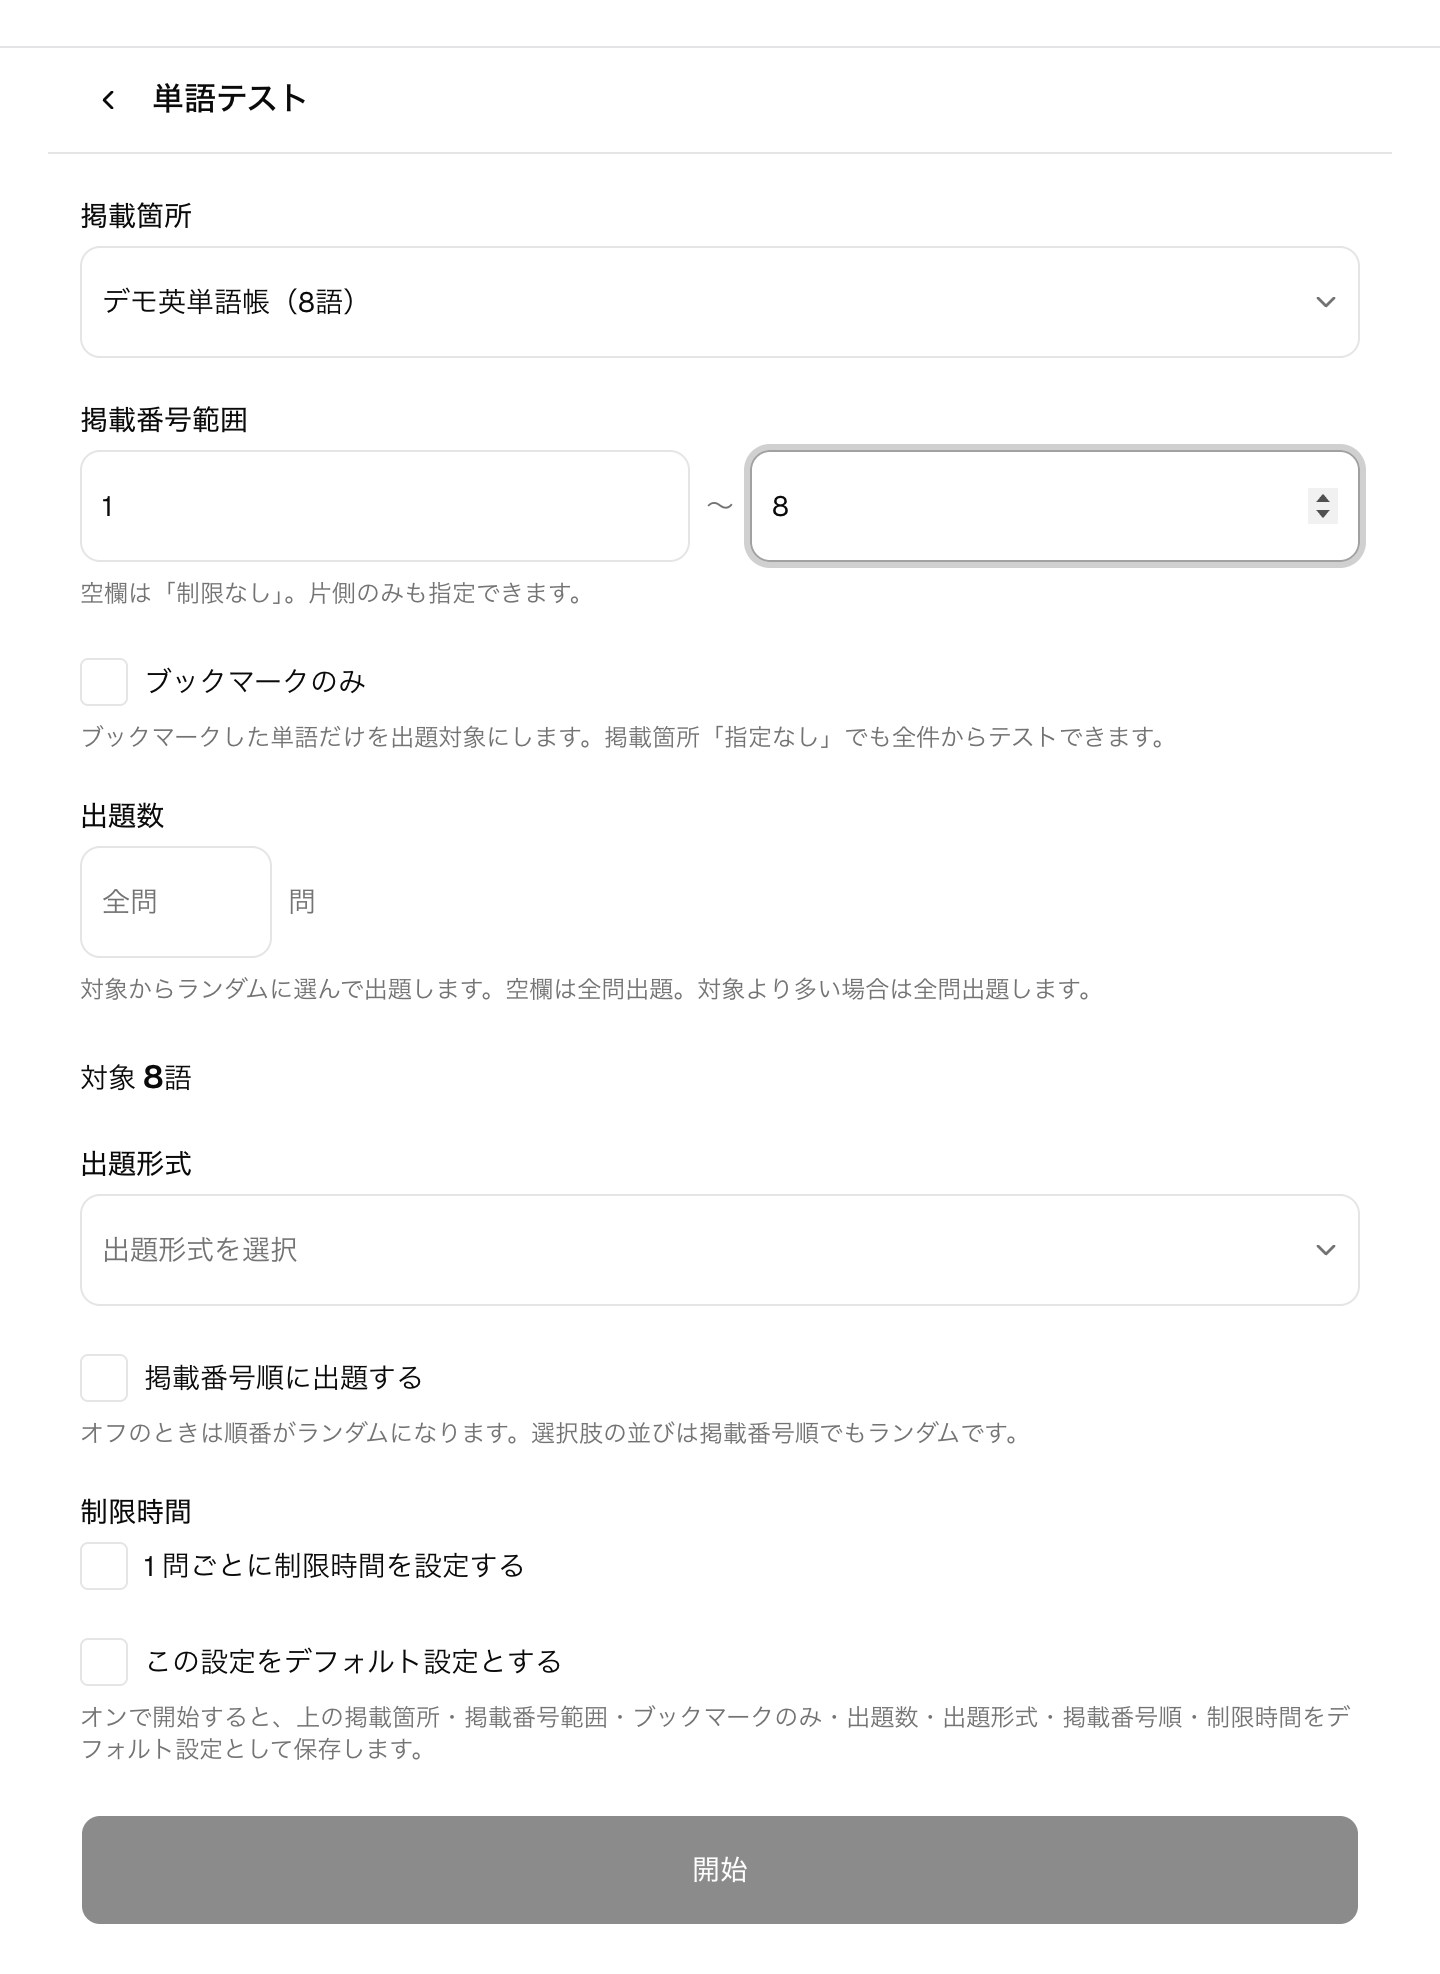
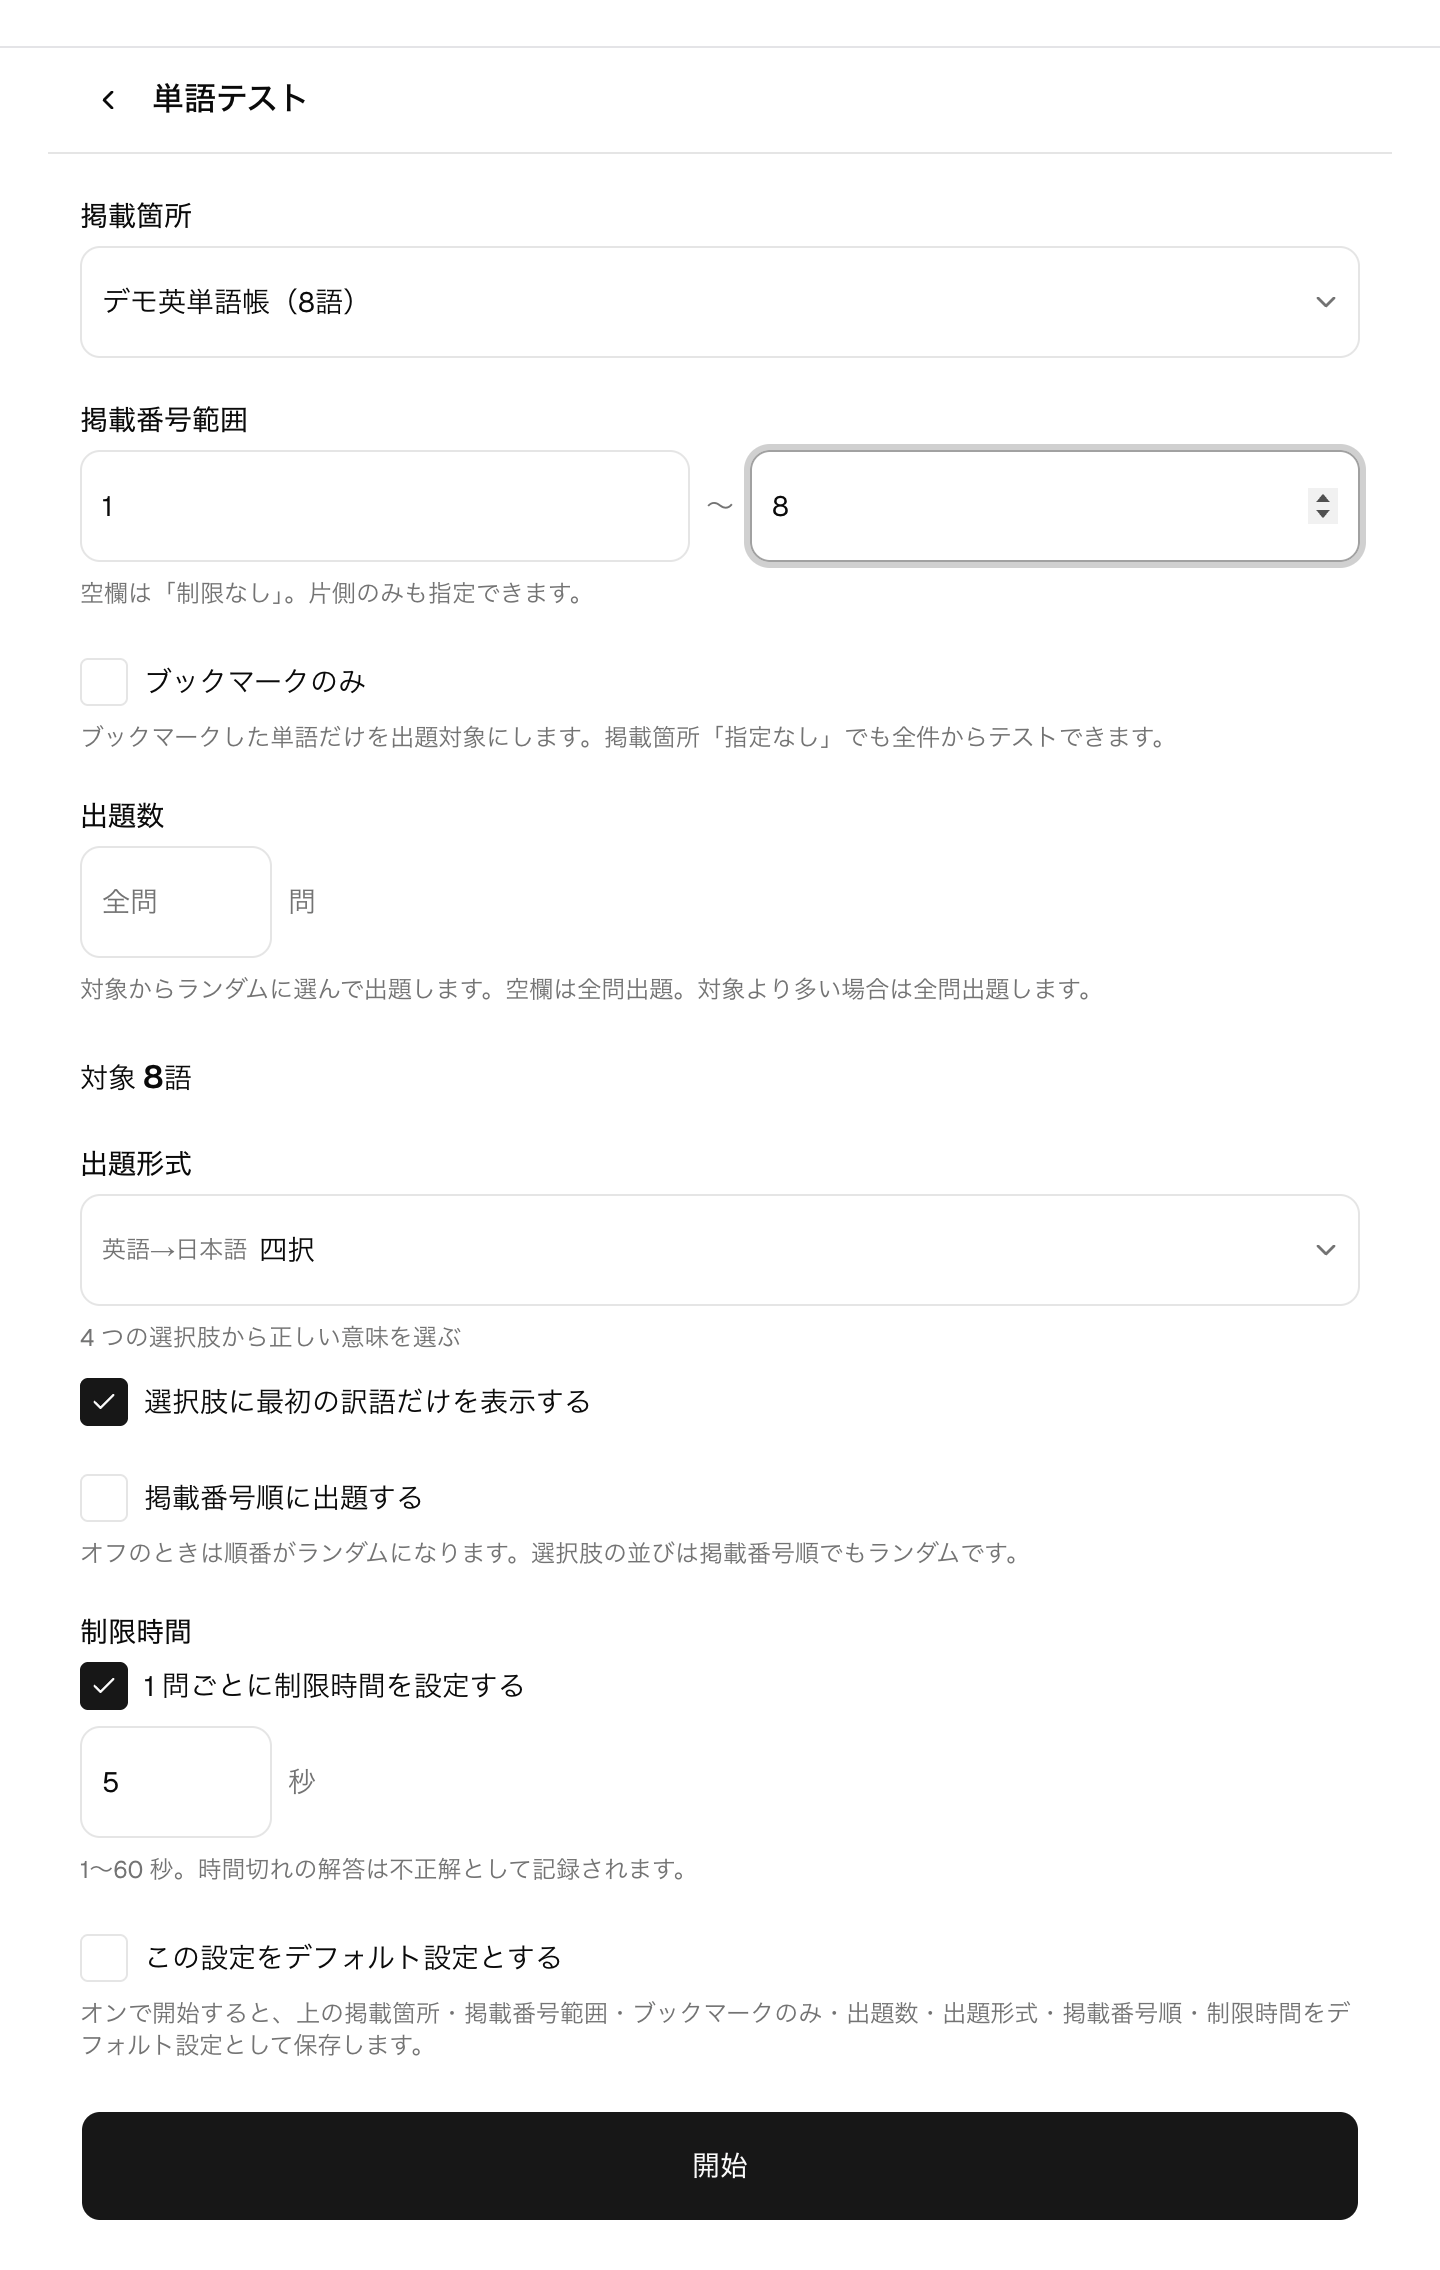
docs: 撮影用デフォルト設定を確定させスクリーンショットを撮り直し
開始画面・設定画面のスクリーンショットが「掲載箇所 未設定・出題形式
未選択」で写っていたため、撮影スクリプトの DB 準備でデフォルト設定
（掲載箇所 = デモ英単語帳、出題形式 = 四択、制限時間 5 秒）を冪等に
確立する ensureQuizDefaultsForDocs を追加。撮影結果がローカル DB の
既存状態に依存しないようにする。

quiz-start / bookmark-quiz-start / settings-quiz-defaults を再撮影。

diff --git a/scripts/e2e/db.ts b/scripts/e2e/db.ts
@@ -368,6 +368,35 @@ export async function ensureQuizDeckBookmarks(
 }
 
 /**
+ * 撮影用に単語テストのデフォルト設定を冪等に確定させる（掲載箇所 = quiz デッキ、出題形式 = 四択、
+ * 四択の制限時間 = 推奨 5 秒）。開始画面・設定画面のスクリーンショットが「未設定／未選択」で
+ * 写らないようにする。必ず ensureQuizDeck の後に呼ぶ（掲載箇所 id を渡す）。
+ */
+export async function ensureQuizDefaultsForDocs(
+  prisma: PrismaClientType,
+  ownerEmailRaw: string,
+  occurrenceId: string,
+): Promise<void> {
+  const email = ownerEmailRaw.toLowerCase();
+  const user = await prisma.user.findUnique({ where: { email }, select: { id: true } });
+  if (!user) {
+    throw new Error(
+      `ensureQuizDefaultsForDocs: ユーザー ${email} が未用意です（先に ensureUser を呼んでください）。`,
+    );
+  }
+  await prisma.quizDefaultSetting.upsert({
+    where: { userId: user.id },
+    update: { occurrenceId, format: "CHOICE" },
+    create: { userId: user.id, occurrenceId, format: "CHOICE" },
+  });
+  await prisma.quizDefaultTimeout.upsert({
+    where: { userId_format: { userId: user.id, format: "CHOICE" } },
+    update: { timeoutSeconds: 5 },
+    create: { userId: user.id, format: "CHOICE", timeoutSeconds: 5 },
+  });
+}
+
+/**
  * 掲載箇所ビューの撮影用に、最も単語数の多い共有（system 所有）掲載箇所を返す（読み取りのみ）。
  * 番号付きの一覧を映すのに使い、無ければ明示エラーにする（ターゲット1900 等を db:import-words で用意する）。
  */

diff --git a/scripts/e2e/capture-docs-screenshots.ts b/scripts/e2e/capture-docs-screenshots.ts
@@ -16,6 +16,7 @@ import {
   ensureDemoWord,
   ensureQuizDeck,
   ensureQuizDeckBookmarks,
+  ensureQuizDefaultsForDocs,
   ensureUser,
   getLargestSharedOccurrence,
   makePrisma,
@@ -301,7 +302,8 @@ async function sectionQuiz(browser: Browser): Promise<void> {
       }
     }
 
-    // 開始画面（掲載箇所・掲載番号範囲・対象語数プレビュー）。形式は未選択のまま全体を映す。
+    // 開始画面（掲載箇所・掲載番号範囲・対象語数プレビュー）。出題形式・制限時間はデフォルト設定
+    // （ensureQuizDefaultsForDocs: 四択・5 秒）が初期表示されたまま全体を映す。
     await page.goto("/quiz");
     await selectOccurrence();
     await page.locator("#quiz-range-from").fill("1");
@@ -566,6 +568,9 @@ async function main(): Promise<void> {
       const deck = await ensureQuizDeck(prisma, TEST_USER1_EMAIL);
       quizDeckLocation = deck.location;
       quizDeckWordCount = deck.wordCount;
+      // 開始画面・設定画面が「未設定／未選択」で写らないよう、デフォルト設定
+      // （掲載箇所 = デッキ、出題形式 = 四択）を確定させる（撮影の再現性を DB 状態に依存させない）。
+      await ensureQuizDefaultsForDocs(prisma, TEST_USER1_EMAIL, deck.occurrenceId);
     }
     if (needsBookmark) {
       await ensureQuizDeckBookmarks(prisma, TEST_USER1_EMAIL);
